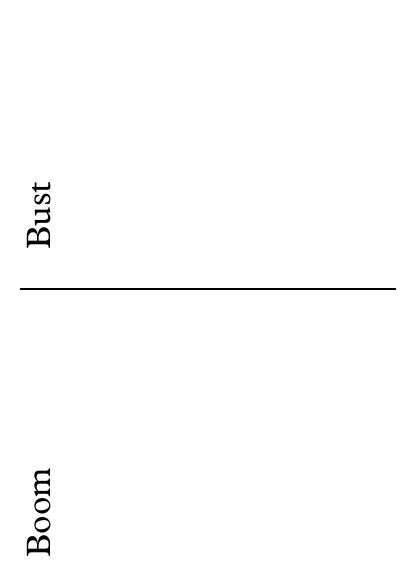
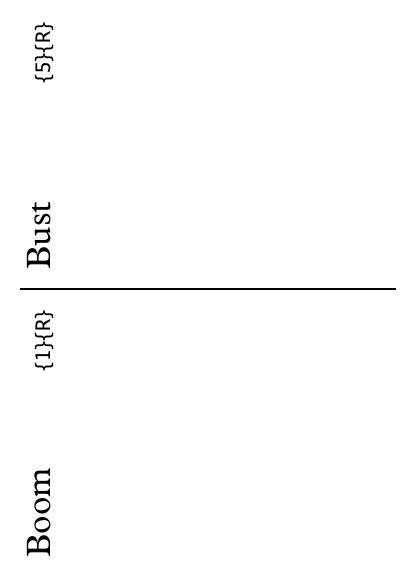
Add SplitCostRenderer and update layout for split card costs

Changed region(s): [[0.0625, 0.3125, 0.125, 0.4688], [0.0625, 0.5312, 0.125, 0.6562], [0.0625, 0.0312, 0.125, 0.1562]]

diff --git a/oracle_escpos/src/card/split_element_renderers.rs b/oracle_escpos/src/card/split_element_renderers.rs
@@ -33,7 +33,7 @@ impl ElementRenderer for SplitNameRenderer {
             .map(|face| face.name.clone())
             .unwrap_or_else(|| card.core.name.clone());
 
-        // --- First Name Setup ---
+        // First Name Setup
         let first_name_style = &layout.split_first_name;
         let first_font_data = layout.font_data(first_name_style.font);
         let first_name_width = layout.text_width(&first_name, first_name_style);
@@ -45,7 +45,7 @@ impl ElementRenderer for SplitNameRenderer {
 
         let first_y: i32 = (layout.height - first_name_style.margin_bottom) as i32;
 
-        // --- Second Name Setup ---
+        // Second Name Setup
         let second_name_style = &layout.split_second_name;
         let second_font_data = layout.font_data(second_name_style.font);
         // Fixed: calculate width using second_name instead of first_name
@@ -56,10 +56,17 @@ impl ElementRenderer for SplitNameRenderer {
             _ => second_name_style.font_size,
         };
 
-        let second_y: i32 =
-            (second_name_style.margin_top as f32 + second_name_width).round() as i32;
+        let second_y: i32 = ((layout.height / 2) - second_name_style.margin_bottom) as i32;
 
-        // --- Render Calls ---
+        // Render Calls
+        draw_horizontal_line(
+            canvas,
+            20,
+            (layout.height / 2) as i32,
+            (layout.width - 40) as i32,
+            2,
+        );
+
         draw_text_rotated_270(
             canvas,
             &first_name,
@@ -82,13 +89,128 @@ impl ElementRenderer for SplitNameRenderer {
             second_name_style.wrap_width,
         );
 
-        draw_horizontal_line(
-            canvas,
-            20,
-            (layout.height / 2) as i32,
-            (layout.width - 40) as i32,
-            2,
-        );
+        Ok(())
+    }
+}
+
+pub struct SplitCostRenderer;
+#[async_trait]
+impl ElementRenderer for SplitCostRenderer {
+    async fn render(
+        &self,
+        card: &OracleScryfallCard,
+        _face: Option<&CardFace>,
+        canvas: &mut RgbImage,
+        layout: &mut Layout,
+    ) -> Result<(), Box<dyn std::error::Error>> {
+        let first_cost = card
+            .core
+            .card_faces
+            .as_ref()
+            .and_then(|faces| faces.get(0))
+            .map(|face| face.mana_cost.clone())
+            .unwrap_or_else(|| card.core.mana_cost.clone());
+
+        let second_cost = card
+            .core
+            .card_faces
+            .as_ref()
+            .and_then(|faces| faces.get(1))
+            .map(|face| face.mana_cost.clone())
+            .unwrap_or_else(|| card.core.mana_cost.clone());
+
+        if let Some(first_cost_string) = first_cost {
+            let first_cost_style = &layout.split_first_cost;
+            let first_cost_font_data = layout.font_data(first_cost_style.font);
+
+            let first_name_width = layout.text_width(&first_cost_string, first_cost_style);
+            // First Name Setup
+
+            let first_cost_font_size = match first_cost_style.small_text_font_size {
+                Some(long_size) if first_name_width > first_cost_style.wrap_width as f32 => {
+                    long_size
+                }
+                _ => first_cost_style.font_size,
+            };
+
+            let first_y: i32 = ((layout.height / 2) as f32
+                + first_name_width
+                + first_cost_style.margin_top as f32)
+                .round() as i32;
+
+            draw_text_rotated_270(
+                canvas,
+                &first_cost_string,
+                first_cost_style.x,
+                first_y,
+                first_cost_font_data,
+                first_cost_font_size,
+                first_cost_style.letter_spacing,
+                first_cost_style.wrap_width,
+            );
+        }
+
+        if let Some(second_cost_string) = second_cost {
+            let second_cost_style = &layout.split_second_cost;
+            let second_cost_font_data = layout.font_data(second_cost_style.font);
+
+            let second_name_width = layout.text_width(&second_cost_string, second_cost_style);
+
+            let second_cost_font_size = match second_cost_style.small_text_font_size {
+                Some(long_size) if second_name_width > second_cost_style.wrap_width as f32 => {
+                    long_size
+                }
+                _ => second_cost_style.font_size,
+            };
+
+            let second_y: i32 =
+                (second_name_width + second_cost_style.margin_top as f32).round() as i32;
+
+            draw_text_rotated_270(
+                canvas,
+                &second_cost_string,
+                second_cost_style.x,
+                second_y,
+                second_cost_font_data,
+                second_cost_font_size,
+                second_cost_style.letter_spacing,
+                second_cost_style.wrap_width,
+            );
+        }
+
+        // // Second Name Setup
+        // let second_name_style = &layout.split_second_name;
+        // let second_font_data = layout.font_data(second_name_style.font);
+        // // Fixed: calculate width using second_name instead of first_name
+        // let second_name_width = layout.text_width(&second_cost, second_name_style);
+
+        // let second_font_size = match second_name_style.small_text_font_size {
+        //     Some(long_size) if second_name_width > second_name_style.wrap_width as f32 => long_size,
+        //     _ => second_name_style.font_size,
+        // };
+
+        // let second_y: i32 = ((layout.height / 2) - second_name_style.margin_bottom) as i32;
+
+        // // Render Calls
+        // draw_horizontal_line(
+        //     canvas,
+        //     20,
+        //     (layout.height / 2) as i32,
+        //     (layout.width - 40) as i32,
+        //     2,
+        // );
+
+        // draw_text_rotated_270(
+        //     canvas,
+        //     &second_name,
+        //     second_name_style.x,
+        //     second_y,
+        //     second_font_data,
+        //     second_font_size,
+        //     second_name_style.letter_spacing,
+        //     second_name_style.wrap_width,
+        // );
+
         Ok(())
     }
 }

diff --git a/oracle_escpos/src/layout.rs b/oracle_escpos/src/layout.rs
@@ -293,6 +293,8 @@ pub struct Layout {
     pub wrap_style: WrapStyle,
     pub split_first_name: TextStyle,
     pub split_second_name: TextStyle,
+    pub split_first_cost: TextStyle,
+    pub split_second_cost: TextStyle,
 }
 
 impl Default for Layout {
@@ -560,12 +562,31 @@ impl Default for Layout {
             },
 
             split_second_name: TextStyle {
-                margin_top: 180,
-                margin_bottom: 0,
+                margin_bottom: 20,
                 x: 50,
                 font: Font::Serif,
                 font_size: fonts.name,
                 small_text_font_size: Some(fonts.long_name),
+                wrap_width: 150,
+                ..Default::default()
+            },
+
+            split_first_cost: TextStyle {
+                margin_top: 20,
+                x: 50,
+                font: Font::Sansserif,
+                font_size: fonts.cost,
+                small_text_font_size: Some(fonts.long_cost),
+                wrap_width: 150,
+                ..Default::default()
+            },
+
+            split_second_cost: TextStyle {
+                margin_top: 20,
+                x: 50,
+                font: Font::Sansserif,
+                font_size: fonts.cost,
+                small_text_font_size: Some(fonts.long_cost),
                 wrap_width: 150,
                 ..Default::default()
             },

diff --git a/oracle_escpos/src/card/image_gen.rs b/oracle_escpos/src/card/image_gen.rs
@@ -12,7 +12,7 @@ use crate::{
             MeldPlaneswalkerRenderer, MeldPowerToughnessRenderer, MeldSetCodeRenderer,
             MeldTypeLineRenderer,
         },
-        split_element_renderers::SplitNameRenderer,
+        split_element_renderers::{SplitCostRenderer, SplitNameRenderer},
     },
     layout::Layout,
 };
@@ -221,7 +221,8 @@ async fn render_split_card_face(
     );
 
     // Compose renderers in order
-    let mut renderers: Vec<Box<dyn ElementRenderer>> = vec![Box::new(SplitNameRenderer)];
+    let mut renderers: Vec<Box<dyn ElementRenderer>> =
+        vec![Box::new(SplitNameRenderer), Box::new(SplitCostRenderer)];
 
     // TODO Finish implementing Split card horizontal layout rendering
     // Execute each renderer
